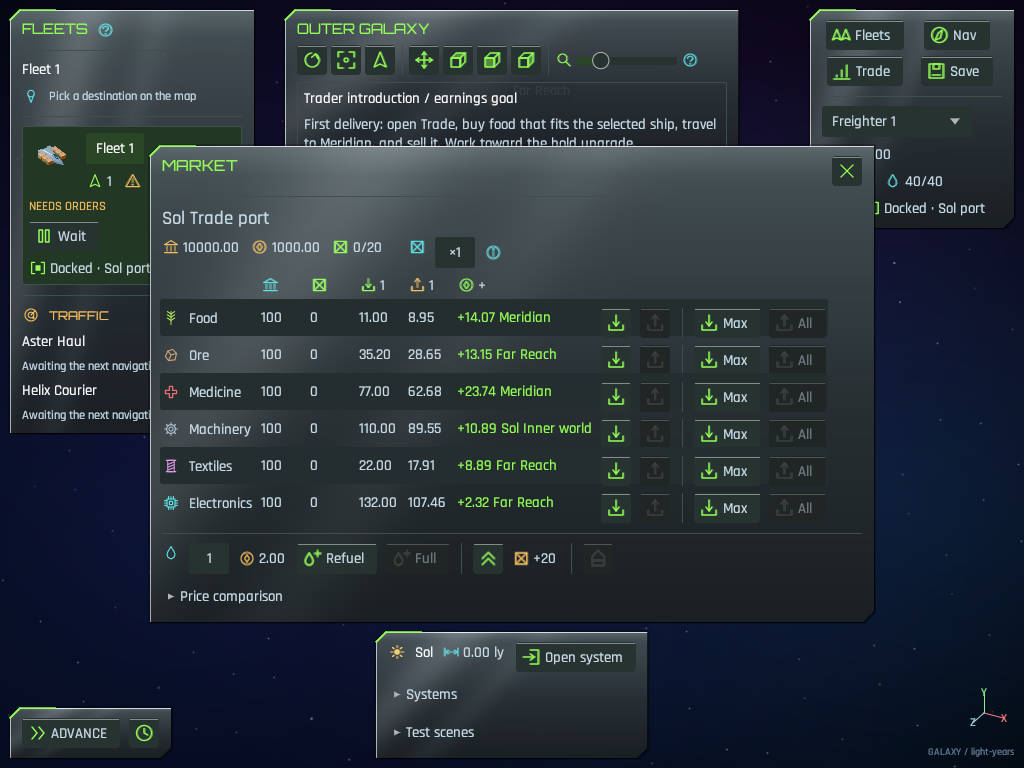
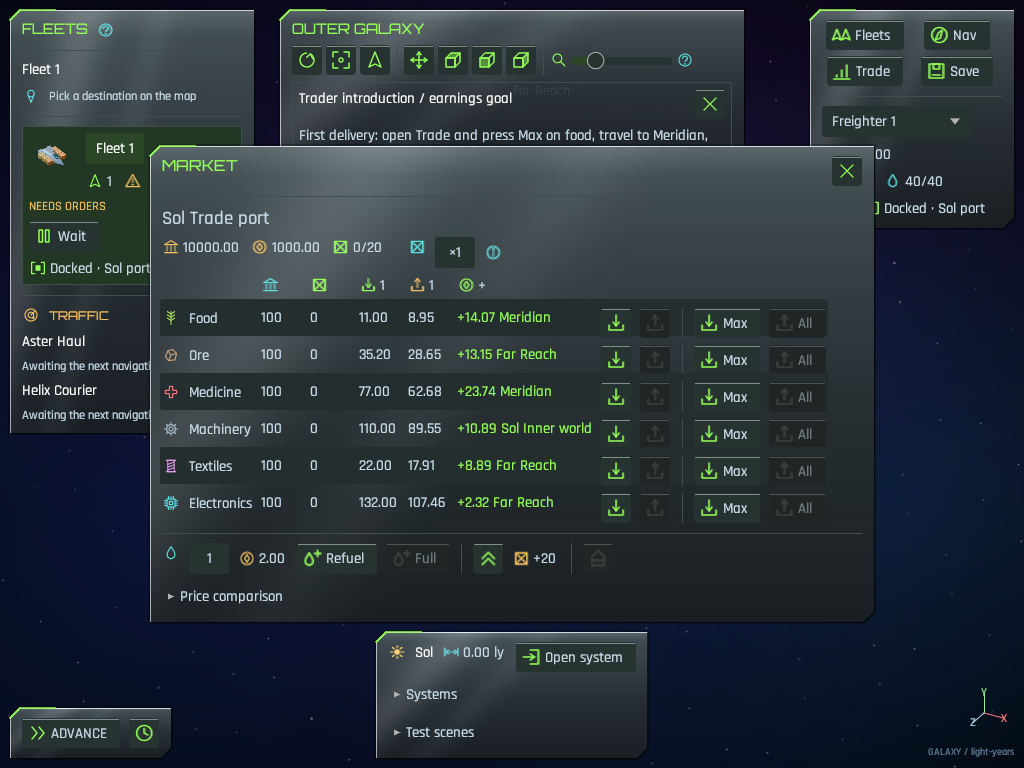
Make the guide card dismissible
An × on the guide card hides it and saves the Guide preference; the
notice explains that the Guide checkbox in the Save window restores it.
The first-delivery hint now points at Max and All. Wording avoids arrow
characters the bundled UI font lacks. Previews showing the guide card
are refreshed.

Changed region(s): [[0.25, 0.0, 0.75, 0.1875], [0.6562, 0.0625, 0.6875, 0.0938]]

diff --git a/crates/game-client/src/session/guide.rs b/crates/game-client/src/session/guide.rs
@@ -1,8 +1,19 @@
 use super::LocalSession;
+use crate::theme::icons::{self, Icon};
 use game_core::{SystemId, economy::Commodity, travel::Location};
 
 impl LocalSession {
-    pub fn guide(&self, ui: &mut egui::Ui) {
+    /// Hides the guide card and remembers that choice; Save window's Guide restores it.
+    pub fn dismiss_guide(&mut self) {
+        self.saves.guide = false;
+        let message = match self.persist_preferences() {
+            Ok(()) => "Guide hidden. Turn it back on with Guide in the Save window.".to_string(),
+            Err(error) => format!("Guide hidden, but the setting could not be saved: {error}"),
+        };
+        self.record(message);
+    }
+
+    pub fn guide(&mut self, ui: &mut egui::Ui) {
         if !self.saves.guide {
             return;
         }
@@ -27,13 +38,27 @@ impl LocalSession {
                 "Select Meridian on the galaxy map, pick its trade port and Plot course; departure and entry are planned for you. Then press Advance. Double-click only inspects a system."
             }
         } else if ship.location == Location::Docked(SystemId(1)) {
-            "First delivery: open Trade, buy food that fits the selected ship, travel to Meridian, and sell it. Work toward the hold upgrade."
+            "First delivery: open Trade and press Max on food, travel to Meridian, and sell it there with All. Work toward the hold upgrade."
         } else {
             "Compare known markets before buying return cargo. Sell where demand is higher, budget for fuel, and work toward the hold upgrade."
         };
+        let mut dismiss = false;
         ui.group(|ui| {
-            ui.strong("Trader introduction / earnings goal");
+            ui.horizontal(|ui| {
+                ui.strong("Trader introduction / earnings goal");
+                ui.with_layout(egui::Layout::right_to_left(egui::Align::Center), |ui| {
+                    dismiss = icons::icon_button(
+                        ui,
+                        Icon::Cancel,
+                        "Hide the guide (turn it back on with Guide in the Save window)",
+                    )
+                    .clicked();
+                });
+            });
             ui.label(hint);
         });
+        if dismiss {
+            self.dismiss_guide();
+        }
     }
 }

diff --git a/crates/game-client/src/session/tests.rs b/crates/game-client/src/session/tests.rs
@@ -132,6 +132,25 @@ fn remembered_slot_and_controls_restore_without_altering_world_state() {
 }
 
 #[test]
+fn dismissing_the_guide_hides_it_and_remembers_the_choice() {
+    use crate::preferences::Preferences;
+    let directory = tempfile::tempdir().unwrap();
+    let settings_path = directory.path().join("settings.json");
+    let mut host = LocalSession::new(game_server::Session::default());
+    host.apply_preferences(Preferences::default(), Some(settings_path.clone()))
+        .unwrap();
+    assert!(host.saves.guide);
+    host.dismiss_guide();
+    assert!(!host.saves.guide);
+    assert!(!Preferences::load(&settings_path).unwrap().guide);
+    assert!(
+        host.notice.contains("Guide in the Save window"),
+        "{}",
+        host.notice
+    );
+}
+
+#[test]
 fn selected_ship_trades_into_its_own_hold_and_restores_from_preferences() {
     use game_core::{
         economy::{Commodity, TradeSide},

diff --git a/docs/MAP_CONTROLS.md b/docs/MAP_CONTROLS.md
@@ -63,7 +63,7 @@ edges; static, no brushed lines):
 | Card | Position | Contents |
 | --- | --- | --- |
 | Roster | top-left | fleets, status, destination, NPC traffic |
-| View toolbar | top-center | breadcrumb/Depart (system view), camera tools, zoom, guide |
+| View toolbar | top-center | breadcrumb/Depart (system view), camera tools, zoom, guide (× hides it; Guide in the Save window restores it) |
 | Status | top-right | Fleets / Navigation / Market / Session buttons, ship, stats |
 | Run | bottom-left | Advance / Stop, single-run clock button, latest event, contact decision |
 | Selection | bottom-center | selected system or body, destination tiles, traits |
